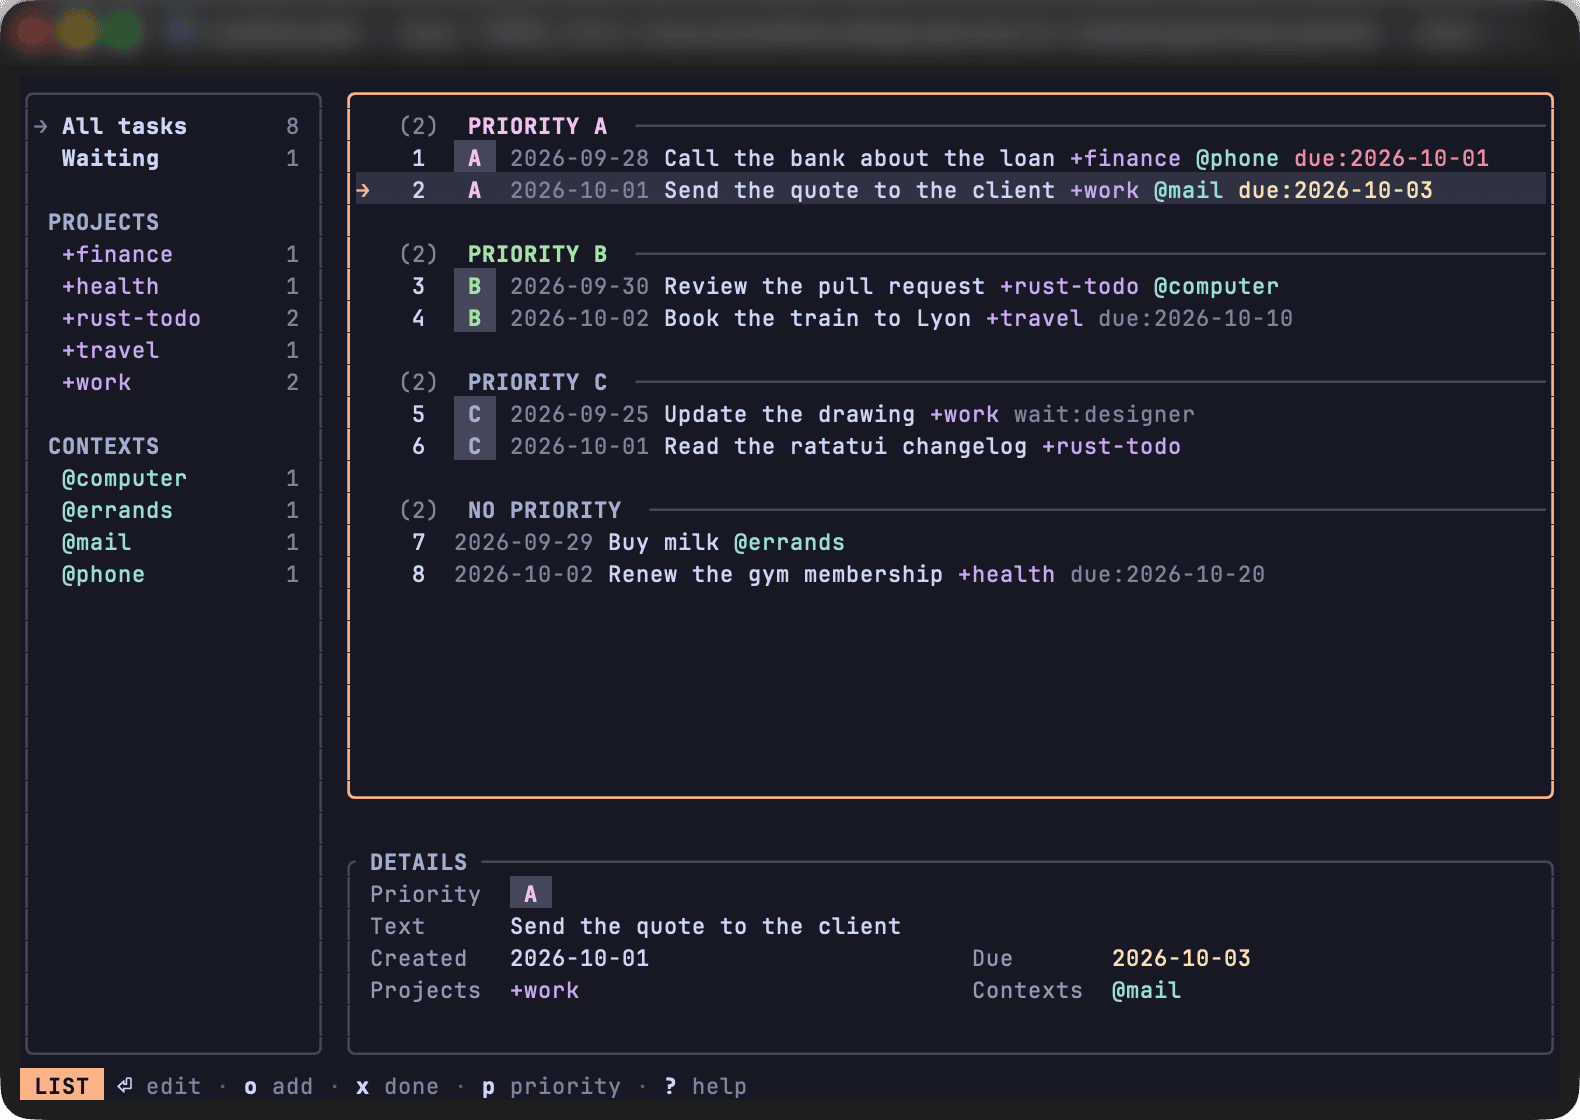
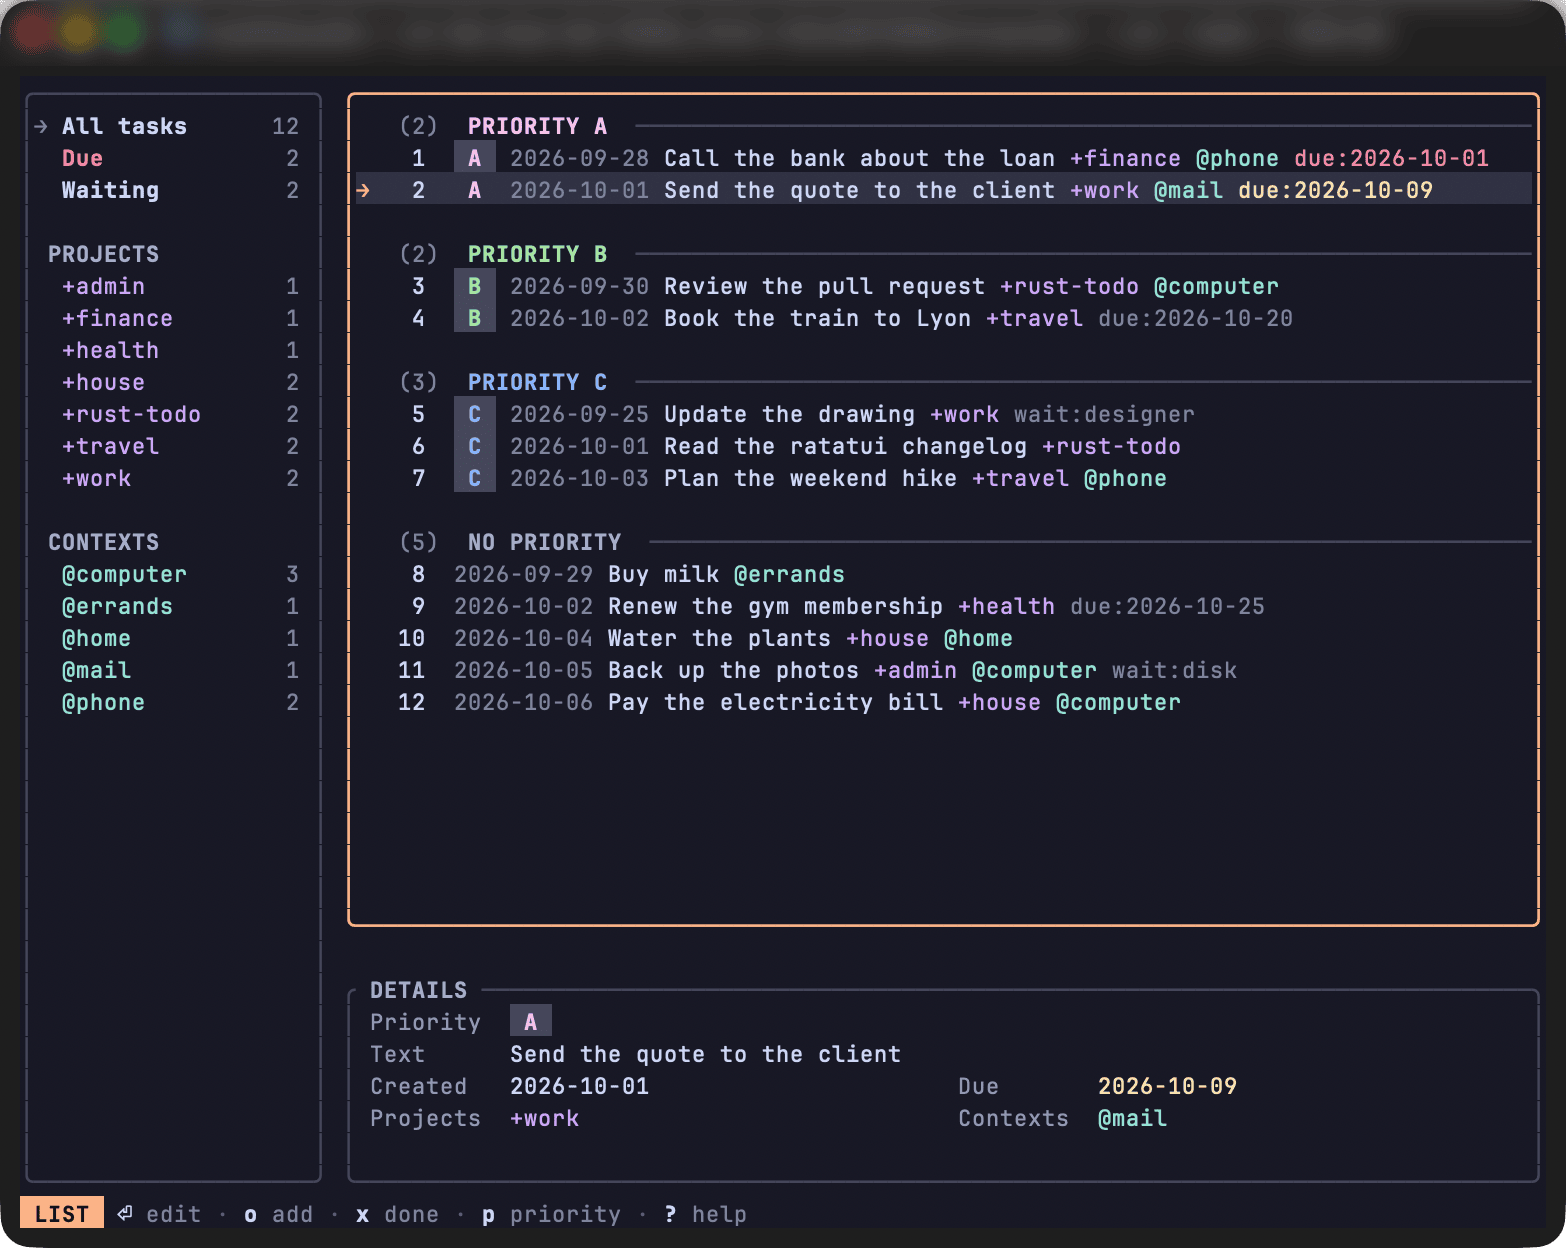
docs(images): retake the list and popup screenshots and add the due, history, help and calendar ones

diff --git a/docs/interactive-list.md b/docs/interactive-list.md
@@ -32,6 +32,8 @@ A done task still in the task file, one typed by hand, is not listed: `todo arch
 `?` shows every key, grouped by mode, and any key closes it.
 A key pressed with `Ctrl` or `Alt` does nothing in the list, the filter panel, the popup's normal mode and its calendar unless it is listed: `Ctrl-D` is not `d`, and it drops a command waiting for its second key.
 
+![The key help over the list: the keys of the list, the calendar, the popup's insert and normal modes, and the filter panel](images/help.png)
+
 ## Screen
 
 The rows are those of `todo list`: same numbers, order and colours.
@@ -52,6 +54,8 @@ Undoing `x` also reads `done.txt` again and takes out its last line equal to the
 These steps are not saved: they are lost when the list closes or the file is reloaded.
 
 ## History
+
+![The history view: the lines of done.txt in light grey, the last completed first, and the names of the filter panel in the same grey](images/history.png)
 
 `H` swaps the content of the list for `done.txt`, the file next to the task file that `x` and `todo do` fill, and `H` again brings the task file back.
 The tasks are numbered by their position in `done.txt`, as `todo list --done` numbers them, and listed from the last line up, so the task completed last comes first; there are no groups.
@@ -77,6 +81,8 @@ A value too long for its place ends with `…`.
 The zone stays empty when the cursor is on a folded group, and it is hidden when the list would be left with fewer than 5 rows.
 
 ## Filter panel
+
+![The filter panel on its Due entry, in red: the list holds an overdue task, its date in red, and one due today, in yellow](images/due.png)
 
 The panel on the left lists `All tasks`, `Due` when a task is due, `Waiting` when a task shown waits, then every `+project` and `@context` of the tasks shown under `PROJECTS` and `CONTEXTS` headers, with how many tasks each shows.
 Moving through it with `j` and `k` filters the list, `Esc` goes back to `All tasks`, and `Tab` or `Enter` returns to the list.

diff --git a/docs/popup.md b/docs/popup.md
@@ -50,6 +50,8 @@ The names of `done.txt` are listed too, so a project whose tasks are all done ca
 
 ## Date picker
 
+![The popup adding a task, with the calendar of October 2026 under due:, the picked day in peach and today in yellow](images/calendar.png)
+
 When a key leaves `due:` alone before the cursor, typed or with its value erased, a calendar of the month drops down under it, weeks from Monday, on today: the picked date peach, today yellow, past days greyed.
 `h` `l` move by a day, `k` `j` by a week, `H` `L` by a month, the arrows as their letters; `Enter` writes the date after `due:`, followed by a space, and `Esc` closes it, leaving `due:` to be typed by hand.
 Any other key and a paste are ignored while it is open.
